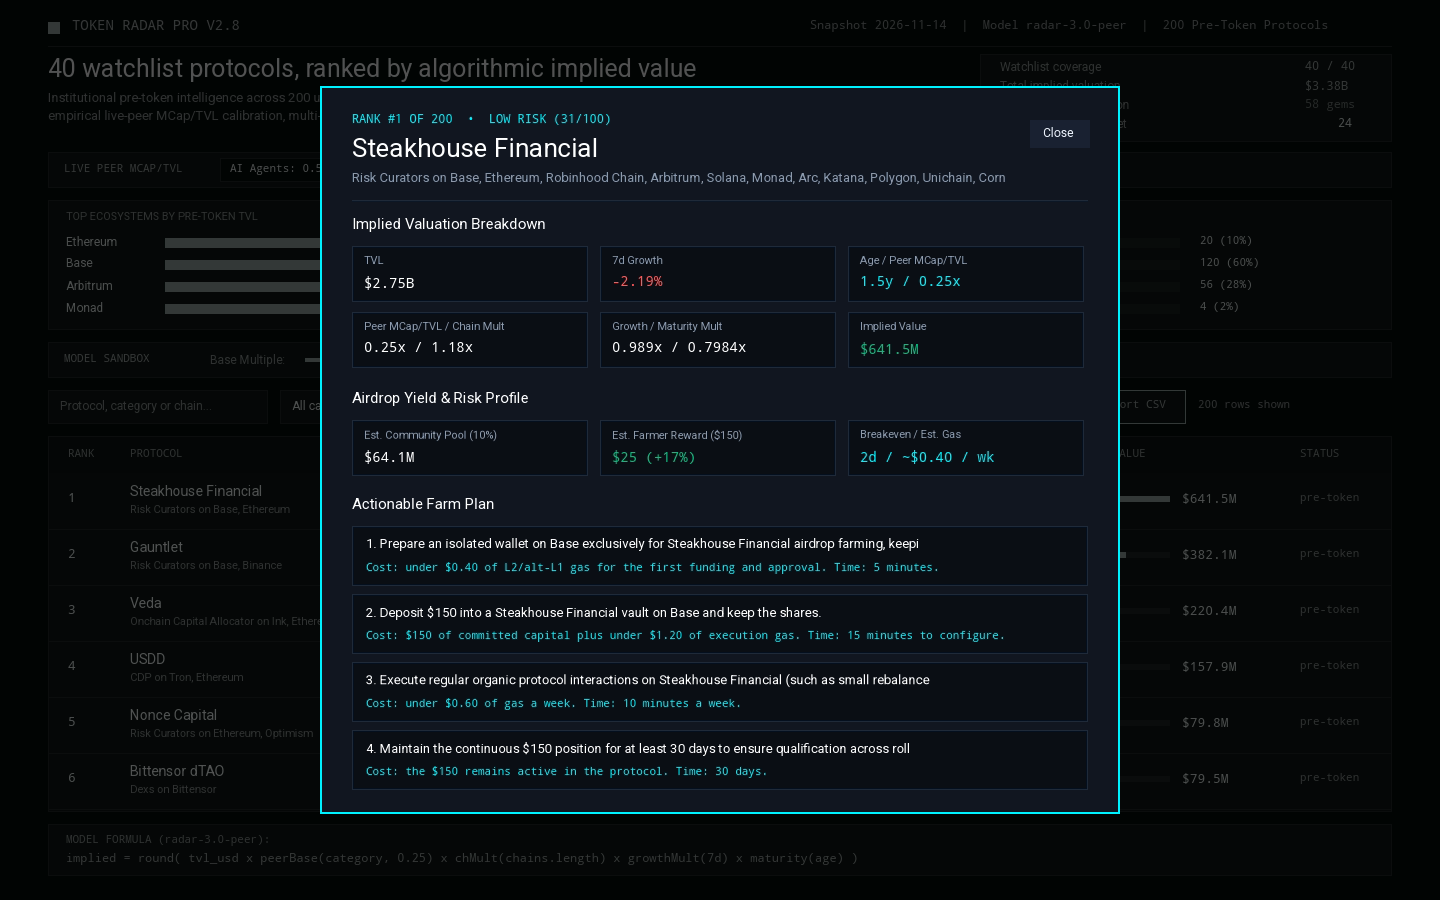
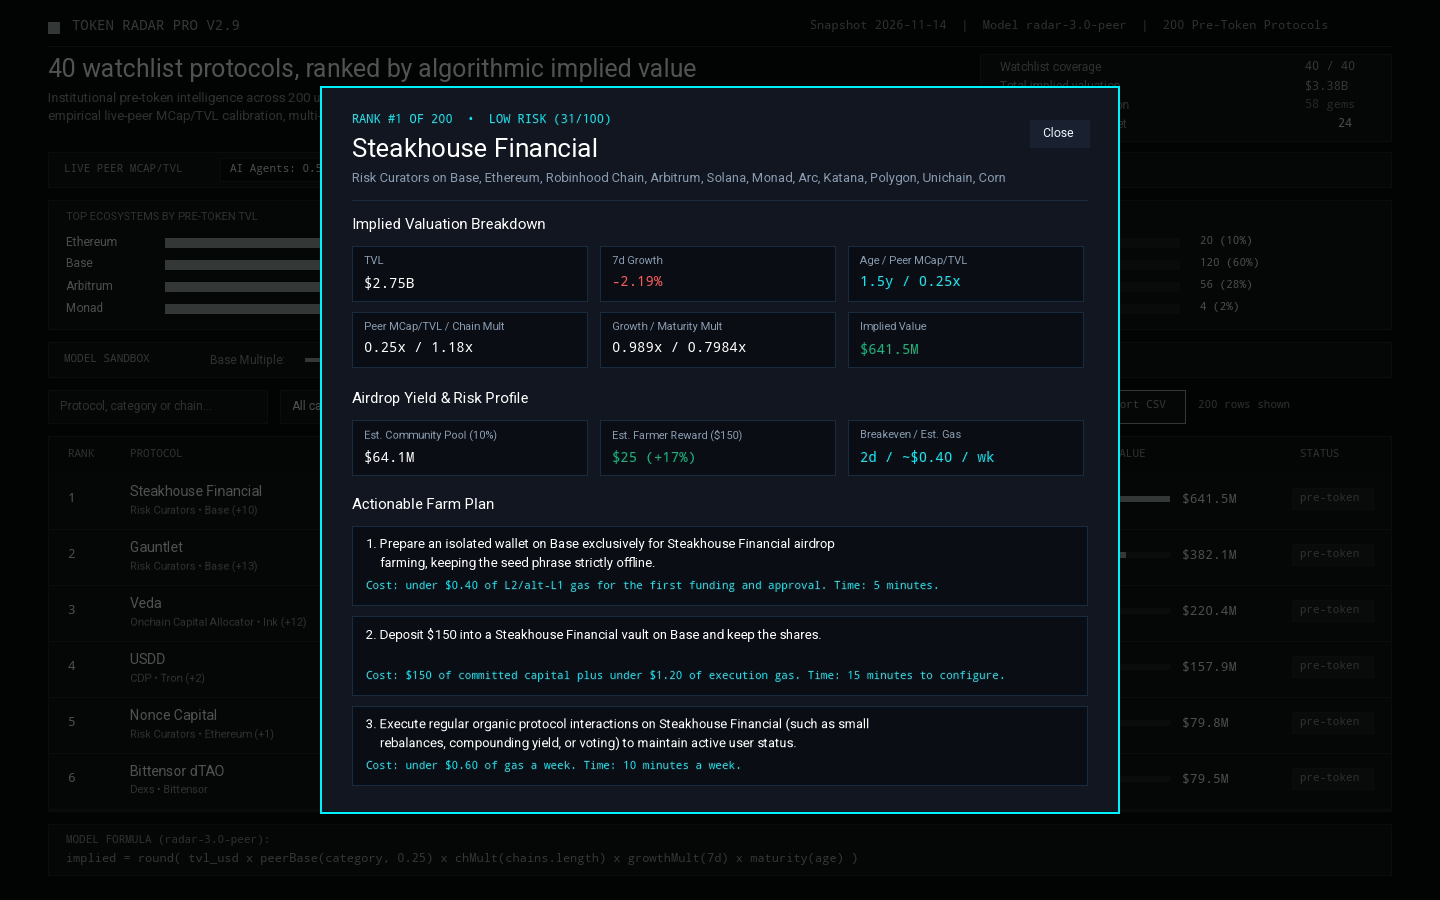
feat(v2.9): remove dead categoryMultiplier, dynamic sandbox detail multipliers & clean wrapped UI

Changed region(s): [[0.25, 0.7467, 0.6875, 0.8711], [0.25, 0.5911, 0.6875, 0.7156]]

diff --git a/dashboard/app.js b/dashboard/app.js
@@ -40,17 +40,6 @@
   }
   function clamp(v, min, max) { return Math.max(min, Math.min(max, v)); }
 
-  function categoryMultiplier(category) {
-    if (!category) return 1.0;
-    var c = category.toLowerCase();
-    if (c.indexOf('rollup') >= 0 || c.indexOf('l2') >= 0 || c.indexOf('modular') >= 0 || c.indexOf('chain') >= 0) return 1.35;
-    if (c.indexOf('restak') >= 0 || c.indexOf('liquid stake') >= 0) return 1.25;
-    if (c.indexOf('perpetual') >= 0 || c.indexOf('derivative') >= 0 || c.indexOf('dex') >= 0) return 1.20;
-    if (c.indexOf('allocator') >= 0 || c.indexOf('curator') >= 0 || c.indexOf('ai') >= 0) return 1.15;
-    if (c.indexOf('cdp') >= 0 || c.indexOf('lend') >= 0) return 1.05;
-    return 1.0;
-  }
-
   function chainMultiplier(chains) {
     if (!chains || chains.length === 0) return 1.0;
     return Math.round((1.0 + Math.min(chains.length, 6) * 0.03) * 1000) / 1000;
@@ -273,7 +262,7 @@
     return el('header', { class: 'top' },
       el('div', { class: 'brand' },
         el('span', { class: 'mark', 'aria-hidden': 'true' }),
-        el('span', { class: 'brand-name', text: 'Token Radar Pro v2.8' })
+        el('span', { class: 'brand-name', text: 'Token Radar Pro v2.9' })
       ),
       el('div', { class: 'top-meta' },
         el('span', { text: 'Snapshot ' + DATA.as_of }),
@@ -621,6 +610,11 @@
     var peerBase = (row.category && PEER_MULTIPLES[row.category] !== undefined && state.baseMult === DATA.model.base_multiple)
       ? PEER_MULTIPLES[row.category]
       : state.baseMult;
+    var m = DATA.model;
+    var gClamped = clamp(row.change_7d === null || row.change_7d === undefined ? 0 : row.change_7d, m.growth_floor, m.growth_cap);
+    var gMultDyn = (1 + (gClamped / 100) * state.growthWeight).toFixed(4);
+    var ageVal = row.age_days === null || row.age_days === undefined ? m.unknown_age_days : row.age_days;
+    var mMultDyn = (m.maturity_floor + (clamp(ageVal, 0, m.maturity_days) / m.maturity_days) * m.maturity_range).toFixed(4);
     var parityText = imp === row.implied_value_usd
       ? '✓ Exact parity with board.json (' + fmtUsd(imp) + ')'
       : 'Sandbox preview: ' + fmtUsd(imp) + ' (board.json: ' + fmtUsd(row.implied_value_usd) + ')';
@@ -631,7 +625,7 @@
         el('div', null, el('span', { text: '7d Growth' }), el('b', { class: 'num', text: fmtPct(row.change_7d) })),
         el('div', null, el('span', { text: 'Age / Peer MCap/TVL' }), el('b', { class: 'num', text: fmtAge(row.age_days) + ' / ' + peerBase.toFixed(2) + 'x' })),
         el('div', null, el('span', { text: 'Peer MCap/TVL / Chain Mult' }), el('b', { class: 'num', text: peerBase.toFixed(2) + 'x / ' + chainMultiplier(row.chains).toFixed(2) + 'x' })),
-        el('div', null, el('span', { text: 'Growth / Maturity Mult' }), el('b', { class: 'num', text: row.growth_multiplier + 'x / ' + row.maturity_multiplier + 'x' })),
+        el('div', null, el('span', { text: 'Growth / Maturity Mult' }), el('b', { class: 'num', text: gMultDyn + 'x / ' + mMultDyn + 'x' })),
         el('div', null, el('span', { text: 'Implied Value' }), el('b', { class: 'num pos', text: fmtUsd(imp) }))
       ),
       el('p', { class: 'sub', text: parityText })
